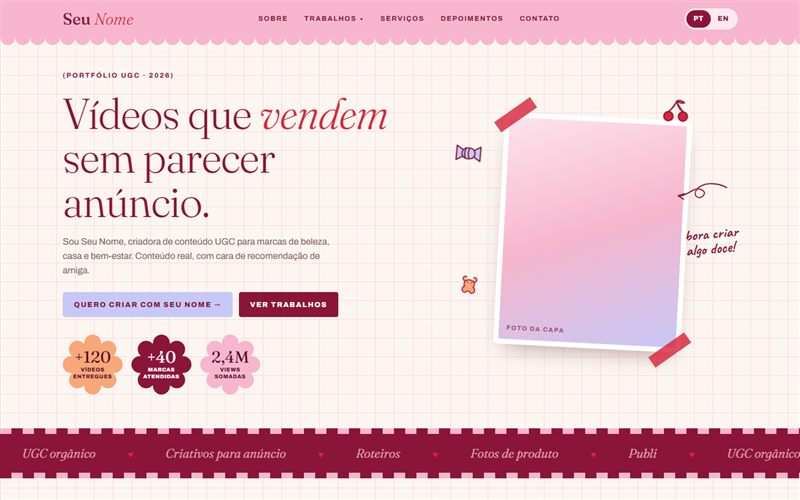
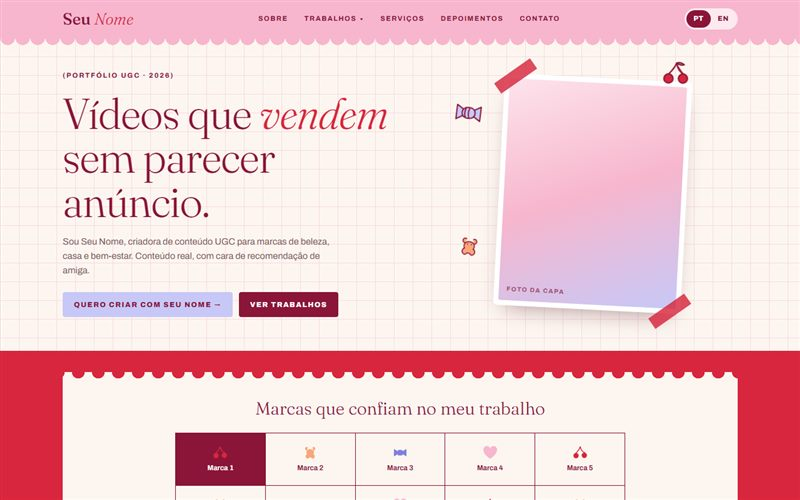
Atualiza index.html

diff --git a/modelos/estilo-03/index.html b/modelos/estilo-03/index.html
@@ -106,9 +106,6 @@ em{font-style:italic;color:var(--vermelho)}
 .capa .botoes{display:flex;flex-wrap:wrap;gap:10px;margin-top:22px}
 .capa-foto{position:relative;max-width:300px;width:100%;justify-self:center;rotate:3deg}
 .capa-foto .foto{aspect-ratio:4/5;border-radius:3px}
-/* bilhete escrito à mão e setinha desenhada */
-.bilhete{position:absolute;z-index:3;right:-118px;top:44%;margin:0;max-width:120px;font-family:var(--mao);font-size:24px;font-weight:700;line-height:1;color:var(--vinho);rotate:-8deg}
-.setinha{position:absolute;z-index:3;right:-62px;top:24%;width:80px;fill:none;stroke:var(--vinho);stroke-width:2;stroke-linecap:round;stroke-linejoin:round;rotate:10deg}
 /* docinhos espalhados, flutuando de leve */
 .doce{position:absolute;z-index:3;fill:var(--rosa);stroke:var(--vinho);stroke-width:2;stroke-linecap:round;stroke-linejoin:round;animation:flutua 5s ease-in-out infinite}
 .doce .folha{fill:#8fbf6a}
@@ -118,22 +115,13 @@ em{font-style:italic;color:var(--vermelho)}
 .bala{width:46px;top:16%;left:-78px;fill:var(--lilas);animation-delay:-3.2s}
 @keyframes flutua{0%,100%{transform:translateY(0) rotate(0)}50%{transform:translateY(-8px) rotate(6deg)}}
 /* números em selos com formato de flor */
-.numeros{display:flex;flex-wrap:wrap;gap:14px;margin-top:28px}
-.numeros div{width:96px;height:96px;display:grid;place-content:center;text-align:center;background:var(--pessego);-webkit-mask:var(--flor) center/100% 100% no-repeat;mask:var(--flor) center/100% 100% no-repeat}
-.numeros div:nth-child(2){background:var(--vinho);color:#fff}
-.numeros div:nth-child(3){background:var(--rosa)}
-.numeros b{display:block;font-family:var(--serifa);font-size:26px;font-weight:400;line-height:1;color:inherit}
-.numeros div:nth-child(2) b{color:#fff}
-.numeros span{display:block;max-width:70px;margin-top:3px;font-size:8.5px;font-weight:800;letter-spacing:.08em;line-height:1.2;text-transform:uppercase}
+/* caixa rosa com os números (logo abaixo das marcas) */
+.caixa-numeros{display:flex;justify-content:center;align-items:center;flex-wrap:wrap;gap:14px 48px;width:min(1080px,100% - 48px);margin:20px auto 0;padding:16px 24px;border-radius:16px;background:var(--rosa)}
+.caixa-numeros div{display:flex;align-items:baseline;gap:10px}
+.caixa-numeros b{font-family:var(--serifa);font-size:30px;font-weight:400;line-height:1;color:var(--vinho)}
+.caixa-numeros b::before{content:"+ de ";font-family:var(--sans);font-size:11px;font-weight:800;letter-spacing:.12em;text-transform:uppercase}
+.caixa-numeros span{font-size:11px;font-weight:800;letter-spacing:.14em;text-transform:uppercase;color:var(--vinho)}
 
-/* ---------- faixa vinho com borda xadrez e os serviços passando ---------- */
-.faixa-rosa{position:relative;overflow:hidden;padding:24px 0;background:var(--vinho);color:var(--rosa);font-family:var(--serifa);font-size:20px;font-style:italic;font-weight:300}
-.faixa-rosa::before,.faixa-rosa::after{content:"";position:absolute;left:0;right:0;height:9px;background:repeating-linear-gradient(90deg,var(--rosa) 0 18px,var(--vinho) 18px 36px)}
-.faixa-rosa::before{top:0}
-.faixa-rosa::after{bottom:0;background:repeating-linear-gradient(90deg,var(--vinho) 0 18px,var(--rosa) 18px 36px)}
-.faixa-rosa-trilho{display:flex;width:max-content;animation:correr 70s linear infinite}
-.faixa-rosa-trilho span{white-space:nowrap;padding-right:52px}
-.faixa-rosa-trilho span::before{content:"♥";margin-right:52px;font-style:normal;font-size:14px;color:var(--vermelho)}
 
 /* ---------- sobre: texto e foto sobre fundo listrado ---------- */
 .sobre .largura{display:grid;grid-template-columns:.85fr 1.15fr;gap:56px;align-items:center}
@@ -148,23 +136,22 @@ em{font-style:italic;color:var(--vermelho)}
 .etiquetas li:nth-child(2){background:var(--lilas)}
 .etiquetas li:nth-child(3){background:var(--pessego)}
 
-/* ---------- marcas: faixa vermelha com cartão branco de bolinhas, casinhas com docinho ---------- */
-.marcas{padding:46px 0;background:var(--vermelho)}
-.marcas-cartao{position:relative;width:min(1080px,100% - 48px);margin:0 auto;padding:46px 0 34px;background:#fff}
-/* fileira de bolinhas vermelhas em cima do cartão */
-.marcas-cartao::before{content:"";position:absolute;left:0;right:0;top:12px;height:22px;background:radial-gradient(circle,var(--vermelho) 9px,transparent 9.5px) 6px 0/30px 22px repeat-x}
-.marcas-titulo{margin:16px auto 22px;text-align:center;font-family:var(--serifa);font-size:clamp(26px,3vw,34px);font-weight:300;color:var(--vinho)}
-.marcas-janela{overflow:hidden;padding:0 0 4px;-webkit-mask-image:linear-gradient(90deg,transparent,#000 5%,#000 95%,transparent);mask-image:linear-gradient(90deg,transparent,#000 5%,#000 95%,transparent)}
-.marcas-trilho{display:flex;width:max-content;animation:correr 40s linear infinite}
-.marcas-janela:hover .marcas-trilho{animation-play-state:paused}
-.marca-bola{flex:none;position:relative;width:128px;height:130px;display:flex;flex-direction:column;align-items:center;justify-content:flex-end;gap:10px;padding:0 10px 18px;border:1.5px solid var(--vinho);margin-left:-1.5px;background:#fff;font-size:12px;font-weight:600;color:var(--vinho);text-align:center;line-height:1.2}
-.marca-bola::before{content:"";width:30px;height:30px;background:var(--rosa);-webkit-mask:var(--icone-cereja) center/contain no-repeat;mask:var(--icone-cereja) center/contain no-repeat;margin-bottom:auto;margin-top:26px}
+/* ---------- marcas: faixa vermelha com cartão branco de bolinhas, 5 casinhas em cima e 5 embaixo ---------- */
+.marcas{padding:34px 0 36px;background:var(--vermelho)}
+.marcas-cartao{position:relative;width:min(1080px,100% - 48px);margin:0 auto;padding:30px 0 26px;background:var(--creme)}
+/* bolinhas vermelhas "mordendo" a borda de cima do cartão */
+.marcas-cartao::before{content:"";position:absolute;left:0;right:0;top:-11px;height:22px;background:radial-gradient(circle,var(--vermelho) 10px,transparent 10.5px) 9px 0/32px 22px repeat-x}
+.marcas-titulo{margin:6px auto 16px;text-align:center;font-family:var(--serifa);font-size:clamp(22px,2.4vw,28px);font-weight:300;color:var(--vinho)}
+.marcas-grade{display:grid;grid-template-columns:repeat(5,1fr);width:min(720px,100% - 32px);margin:0 auto;border-top:1.5px solid var(--vinho);border-left:1.5px solid var(--vinho)}
+.marca-bola{position:relative;height:84px;display:flex;flex-direction:column;align-items:center;justify-content:center;gap:6px;padding:6px;border-right:1.5px solid var(--vinho);border-bottom:1.5px solid var(--vinho);font-size:11.5px;font-weight:600;color:var(--vinho);text-align:center;line-height:1.2}
+.marca-bola::before{content:"";width:24px;height:24px;background:var(--rosa);-webkit-mask:var(--icone-cereja) center/contain no-repeat;mask:var(--icone-cereja) center/contain no-repeat}
 .marca-bola:nth-child(4n+1)::before{background:var(--vermelho)}
 .marca-bola:nth-child(4n+2)::before{background:var(--pessego);-webkit-mask-image:var(--icone-ursinho);mask-image:var(--icone-ursinho)}
 .marca-bola:nth-child(4n+3)::before{background:var(--lilas-escuro);-webkit-mask-image:var(--icone-bala);mask-image:var(--icone-bala)}
 .marca-bola:nth-child(4n)::before{background:var(--rosa);-webkit-mask-image:var(--icone-coracao);mask-image:var(--icone-coracao)}
-.marca-bola:nth-child(5n+1){background:var(--vinho);color:#fff}
-.marca-bola img{width:72%;height:50%;object-fit:contain}
+.marca-bola:first-child{background:var(--vinho);color:#fff}
+.marca-bola img{width:72%;height:60%;object-fit:contain}
+.marca-bola:has(img)::before{display:none}
 @keyframes correr{to{transform:translateX(-50%)}}
 
 /* ---------- vídeos (destaques e nichos) ---------- */
@@ -305,7 +292,7 @@ em{font-style:italic;color:var(--vermelho)}
 /* animação ao rolar */
 .surge{opacity:0;transform:translateY(22px);transition:opacity .8s,transform .8s}
 .surge.visto{opacity:1;transform:none}
-@media (prefers-reduced-motion:reduce){.surge{opacity:1;transform:none}.marcas-trilho,.faixa-rosa-trilho,.destaque,.doce{animation:none}}
+@media (prefers-reduced-motion:reduce){.surge{opacity:1;transform:none}.destaque,.doce{animation:none}}
 
 /* ---------- celular ---------- */
 @media (max-width:900px){
@@ -327,18 +314,18 @@ em{font-style:italic;color:var(--vermelho)}
   .capa p.apresenta{font-size:14px;margin-top:14px}
   .capa .btn{padding:10px 13px;font-size:10.5px}
   .capa .botoes{gap:8px;margin-top:18px}
-  .numeros{justify-content:space-between;gap:6px;margin-top:22px}
-  .numeros div{width:98px;height:98px}
-  .bilhete{right:auto;left:-28px;top:auto;bottom:-44px;font-size:20px;max-width:none;rotate:-4deg}
-  .setinha{display:none}
+  .caixa-numeros{width:calc(100% - 24px);gap:10px 26px;padding:14px 16px}
+  .caixa-numeros b{font-size:24px}
   .cereja{right:-6px}
   .ursinho{left:-40px}
   .bala{left:-44px;width:38px}
   .sobre .largura{grid-template-columns:1fr;gap:30px}
   .sobre .polaroid{width:100%;max-width:320px;margin:6px auto 0;order:2;padding:22px}
-  .marcas{padding:30px 0}
+  .marcas{padding:26px 0 28px}
   .marcas-cartao{width:calc(100% - 24px)}
-  .marca-bola{width:110px;height:118px}
+  .marcas-grade{width:calc(100% - 20px)}
+  .marca-bola{height:70px;font-size:10px;gap:4px;padding:4px}
+  .marca-bola::before{width:20px;height:20px}
   .destaques-lista{grid-template-columns:none;grid-auto-flow:column;grid-auto-columns:72%;overflow-x:auto;scroll-snap-type:x mandatory;padding:18px 14% 16px}
   .destaque{scroll-snap-align:center}
   .destaque:nth-child(1),.destaque:nth-child(3){margin-top:0}
@@ -369,9 +356,6 @@ em{font-style:italic;color:var(--vermelho)}
   .servicos{grid-template-columns:1fr;gap:16px}
   .servico{min-height:150px;padding:22px 20px 18px}
   .servico h3{font-size:25px}
-  .faixa-rosa{font-size:17px;padding:20px 0}
-  .faixa-rosa-trilho span{padding-right:34px}
-  .faixa-rosa-trilho span::before{margin-right:34px}
   /* barra de baixo, igual de app */
   body{padding-bottom:92px}
   .barra-app{position:fixed;z-index:30;left:10px;right:10px;bottom:calc(10px + env(safe-area-inset-bottom));display:grid;grid-template-columns:repeat(5,1fr);align-items:end;padding:8px 4px 7px;border-radius:22px;background:#fff;box-shadow:0 10px 30px -8px rgba(74,15,34,.35)}
@@ -447,7 +431,7 @@ em{font-style:italic;color:var(--vermelho)}
     </div>
     <!-- caixa rosa com os números (EDITAR) -->
     <div class="numeros caixa-numeros">
-      <div><b>+40</b><span data-en="brands worked with">marcas trabalhadas</span></div>
+      <div><b>40</b><span data-en="brands worked with">marcas trabalhadas</span></div>
       <div><b>2,4M</b><span data-en="total views">views somadas</span></div>
     </div>
   </section>

diff --git a/cliente/index.html b/cliente/index.html
@@ -545,7 +545,7 @@ const MODELOS = [
   { tipo: "Bio link",  nome: "Elegante", categoria: "Escuro e sofisticado", link: "", imagem: "", estilo: "elegante" },
   { tipo: "Portfólio", nome: "Editorial creme e azul", categoria: "Editorial", link: "../modelos/estilo-01/", imagem: "../fotos/modelos/01.jpg?v=5" },
   { tipo: "Portfólio", nome: "Scrapbook rosa e amarelo", categoria: "Divertido", link: "../modelos/estilo-02/", imagem: "../fotos/modelos/02.jpg?v=4" },
-  { tipo: "Portfólio", nome: "Candy retrô", categoria: "Divertido", link: "../modelos/estilo-03/", imagem: "../fotos/modelos/03.jpg" },
+  { tipo: "Portfólio", nome: "Candy retrô", categoria: "Divertido", link: "../modelos/estilo-03/", imagem: "../fotos/modelos/03.jpg?v=2" },
   { tipo: "Site",      nome: "Clean",    categoria: "Clean e elegante",     link: "", imagem: "", estilo: "clean" },
   { tipo: "Site",      nome: "Colorido", categoria: "Colorido e divertido", link: "", imagem: "", estilo: "colorido" },
   { tipo: "Site",      nome: "Elegante", categoria: "Escuro e sofisticado", link: "", imagem: "", estilo: "elegante" }
